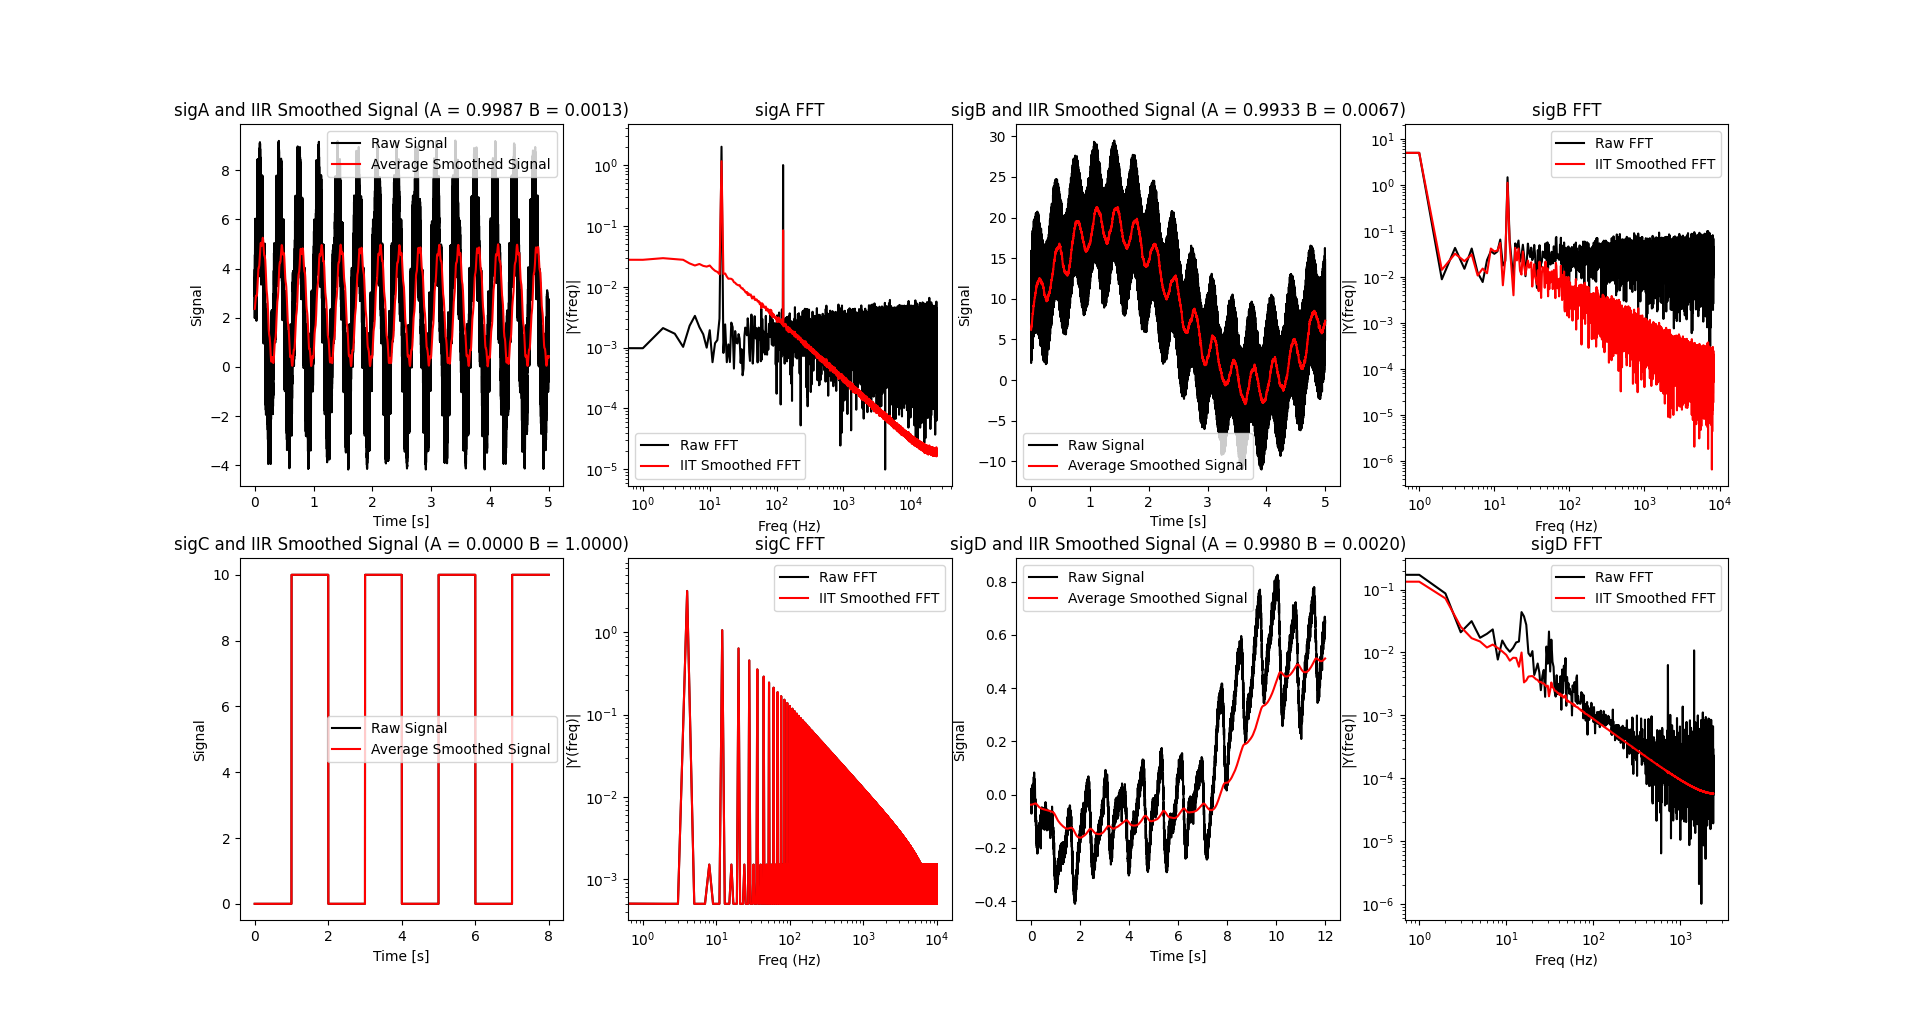
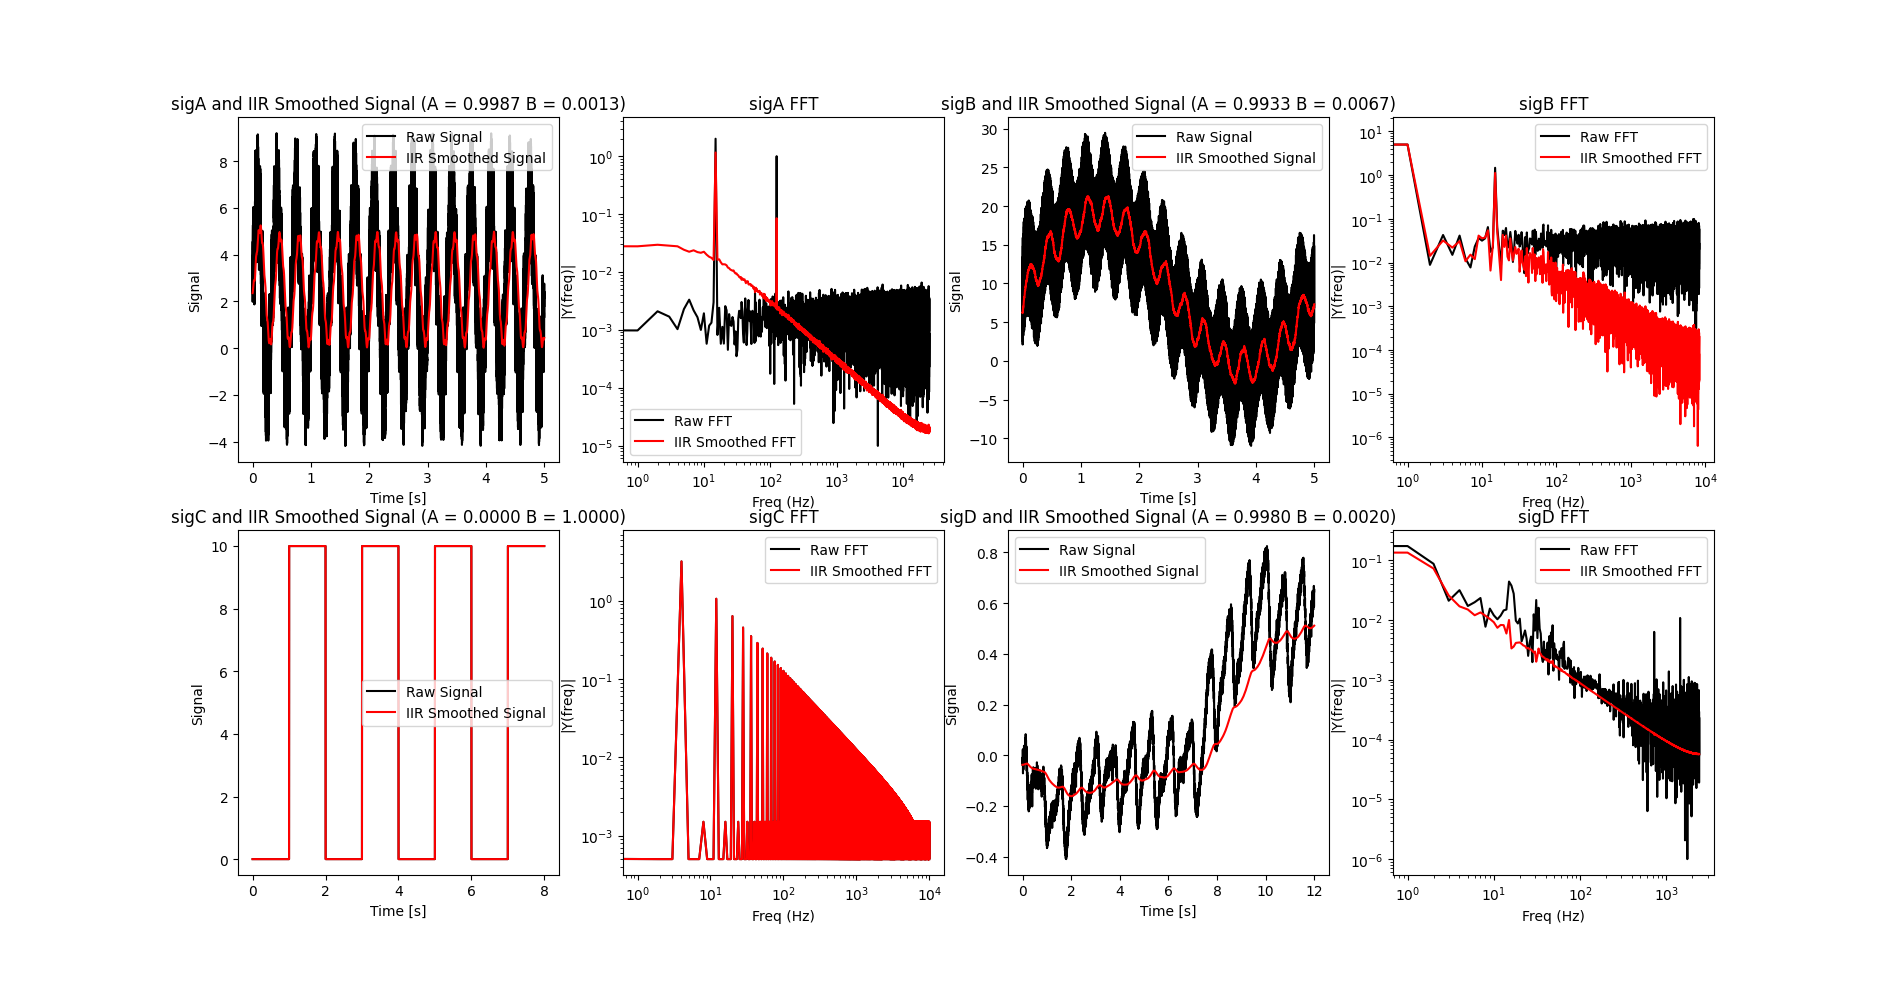
Correcting plot labels

diff --git a/hw9/filter.py b/hw9/filter.py
@@ -129,7 +129,7 @@ def plot_iir(ax_signal, ax_fft, file, B):
                 smoothed_signal.append(A*smoothed_signal[-1] + B*signal[-1])
 
     ax_signal.plot(t, signal, 'k', label='Raw Signal')
-    ax_signal.plot(t, smoothed_signal, 'r', label='Average Smoothed Signal')
+    ax_signal.plot(t, smoothed_signal, 'r', label='IIR Smoothed Signal')
 
     ax_signal.set_title(f'{file} and IIR Smoothed Signal (A = {A:.4f} B = {B:.4f})')
     ax_signal.set_xlabel('Time [s]')
@@ -155,7 +155,7 @@ def plot_iir(ax_signal, ax_fft, file, B):
     Y = np.fft.fft(smoothed_signal)/len(smoothed_signal) # fft computing and normalization
     Y = Y[range(int(len(smoothed_signal)/2))]
 
-    ax_fft.loglog(frq,abs(Y),'r', label='IIT Smoothed FFT') # plotting the fft
+    ax_fft.loglog(frq,abs(Y),'r', label='IIR Smoothed FFT') # plotting the fft
     ax_fft.set_title(file+' FFT')
     ax_fft.set_xlabel('Freq (Hz)')
     ax_fft.set_ylabel('|Y(freq)|')
